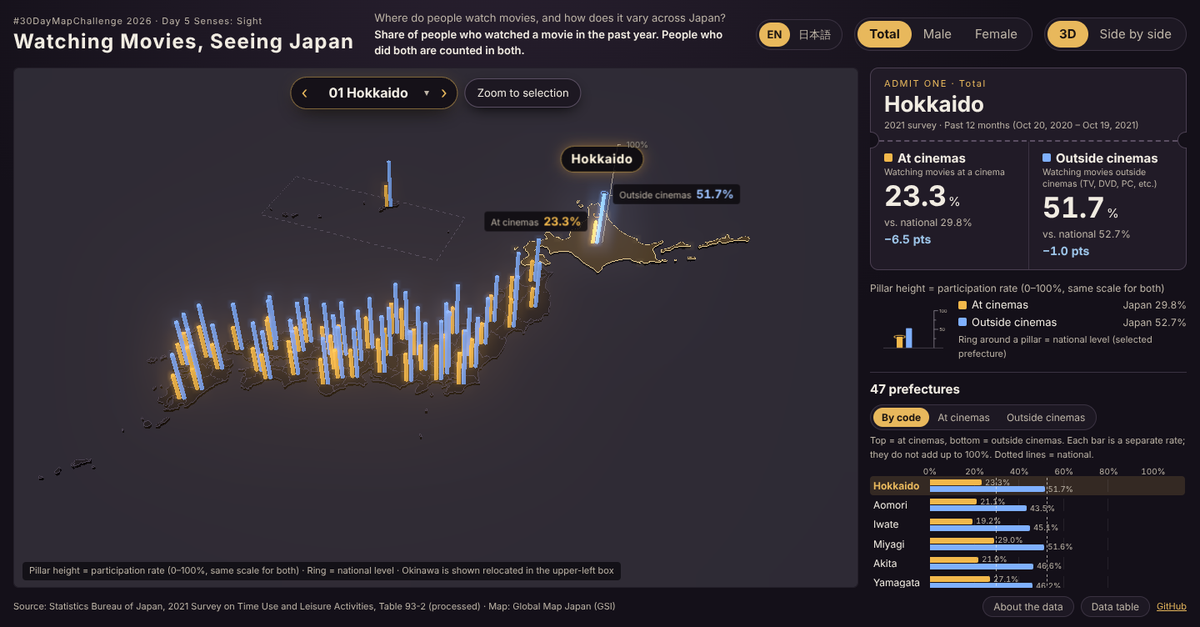
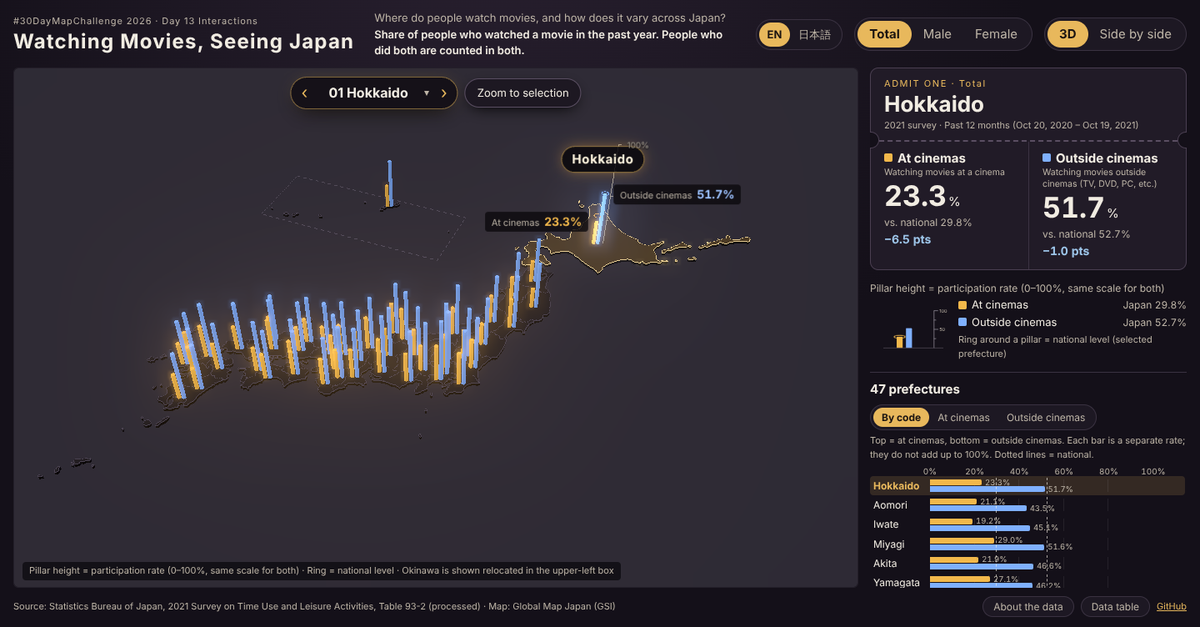
作品を Day 13 Interactions に移し、リポジトリ名・公開URLを更新
- 画面のヘッダー表記を Day 13 Interactions に変更
- package.json の name、index.html の og:url・og:image・説明文、GitHub へのリンクを新しいリポジトリ名に変更
- README に Day 13 の説明、公開URL、Interactions に当てはまる理由を追記
- OGP画像を作り直し

diff --git a/index.html b/index.html
@@ -6,10 +6,10 @@
     <meta name="description" content="Where do people in Japan watch movies? A 3D map of the share of people who watched movies at cinemas and outside cinemas in the past year, by prefecture (2021 Survey on Time Use and Leisure Activities). 2021年社会生活基本調査をもとに、都道府県別に「映画館」「映画館以外」で映画を見た人の割合を比べる地図。" />
     <title>Watching Movies, Seeing Japan | 映画を見る、日本を見る。</title>
     <meta property="og:type" content="website" />
-    <meta property="og:url" content="https://shinyanakashima.github.io/30daymapchallenge-2026day5-senses-cinema/" />
+    <meta property="og:url" content="https://shinyanakashima.github.io/30daymapchallenge-2026day13-cinema/" />
     <meta property="og:title" content="Watching Movies, Seeing Japan" />
-    <meta property="og:description" content="Where do people in Japan watch movies? Share of people who watched movies at cinemas and outside cinemas in the past year, by prefecture. #30DayMapChallenge 2026 Day 5: Senses (Sight)" />
-    <meta property="og:image" content="https://shinyanakashima.github.io/30daymapchallenge-2026day5-senses-cinema/og.png" />
+    <meta property="og:description" content="Where do people in Japan watch movies? Share of people who watched movies at cinemas and outside cinemas in the past year, by prefecture. #30DayMapChallenge 2026 Day 13: Interactions" />
+    <meta property="og:image" content="https://shinyanakashima.github.io/30daymapchallenge-2026day13-cinema/og.png" />
     <meta property="og:image:width" content="1200" />
     <meta property="og:image:height" content="627" />
     <meta property="og:image:alt" content="A dark 3D map of Japan with gold and blue light pillars for each prefecture" />

diff --git a/src/App.tsx b/src/App.tsx
@@ -95,7 +95,7 @@ export default function App() {
     <div className="app">
       <header className="topbar">
         <div className="brand">
-          <p className="kicker">#30DayMapChallenge 2026 · Day 5 Senses: Sight</p>
+          <p className="kicker">#30DayMapChallenge 2026 · Day 13 Interactions</p>
           <h1>{t.title}</h1>
         </div>
         <p className="lede">
@@ -237,7 +237,7 @@ export default function App() {
           <button onClick={() => setDialog("table")} disabled={!data}>
             {t.table}
           </button>
-          <a href="https://github.com/shinyanakashima/30daymapchallenge-2026day5-senses-cinema" target="_blank" rel="noreferrer">
+          <a href="https://github.com/shinyanakashima/30daymapchallenge-2026day13-cinema" target="_blank" rel="noreferrer">
             GitHub
           </a>
         </div>

diff --git a/README.md b/README.md
@@ -1,8 +1,12 @@
 # 映画を見る、日本を見る。／Watching Movies, Seeing Japan（仮題）
 
-#30DayMapChallenge 2026 Day 5「Senses: Sight」。
+#30DayMapChallenge 2026 Day 13「Interactions」（"Interactions between things, or maybe the result would be an interactive map?"）。
 
-全国47都道府県について、過去1年間に「映画館」「映画館以外」で映画を見た人の割合（行動者率）を、同じ尺度の2枚の地図で並べて比べるWebアプリです。
+公開URL：https://shinyanakashima.github.io/30daymapchallenge-2026day13-cinema/ （英語 `?lang=en`／日本語 `?lang=ja`）
+
+地図・選択リスト・棒グラフのどこで県を選んでも、立体地図のカメラ、チケット風カード、棒グラフが同時に動き、性別を切り替えると柱の高さと全国値との差がそろって更新されます。地図にマウスを乗せるとその場にミニグラフが出るなど、操作に応じて複数の表示が連動するインタラクティブ地図として、Day 13 の「Interactions」に当てはめています。
+
+全国47都道府県について、過去1年間に「映画館」「映画館以外」で映画を見た人の割合（行動者率）を、同じ尺度の2本の柱（立体表示）または2枚の地図（2面表示）で比べるWebアプリです。
 
 - 問い：映画を見る場所は、地域でどう違う？
 - データ：総務省統計局「令和3年社会生活基本調査」調査票A 第93-2表（2021年）

diff --git a/docs/spec.md b/docs/spec.md
@@ -1,4 +1,4 @@
-Day5 Senses: Sightの実装指示書。更新：2026年11月4日。題材は映画鑑賞に決定。全国47都道府県について、「映画館での映画鑑賞」と「映画館以外での映画鑑賞」の行動者率を比較する。以下の画面・技術案を初期仕様とし、実装担当へ引き継げる形でまとめる。
+#30DayMapChallenge 2026 Day 13 Interactions の実装指示書。更新：2026年11月4日。題材は映画鑑賞に決定。全国47都道府県について、「映画館での映画鑑賞」と「映画館以外での映画鑑賞」の行動者率を比較する。以下の画面・技術案を初期仕様とし、実装担当へ引き継げる形でまとめる。
 
 # 作品の問いと方向性
 
